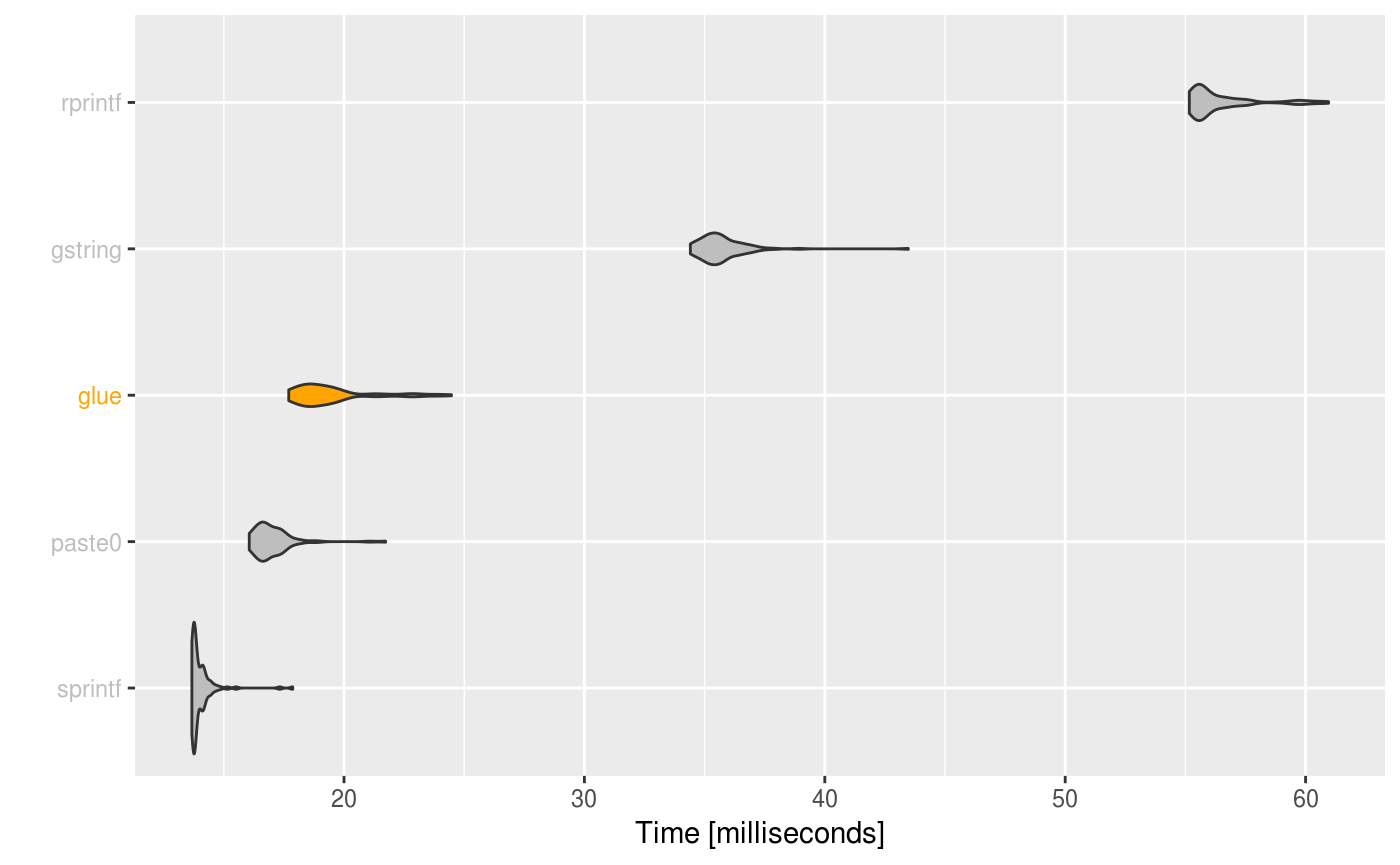
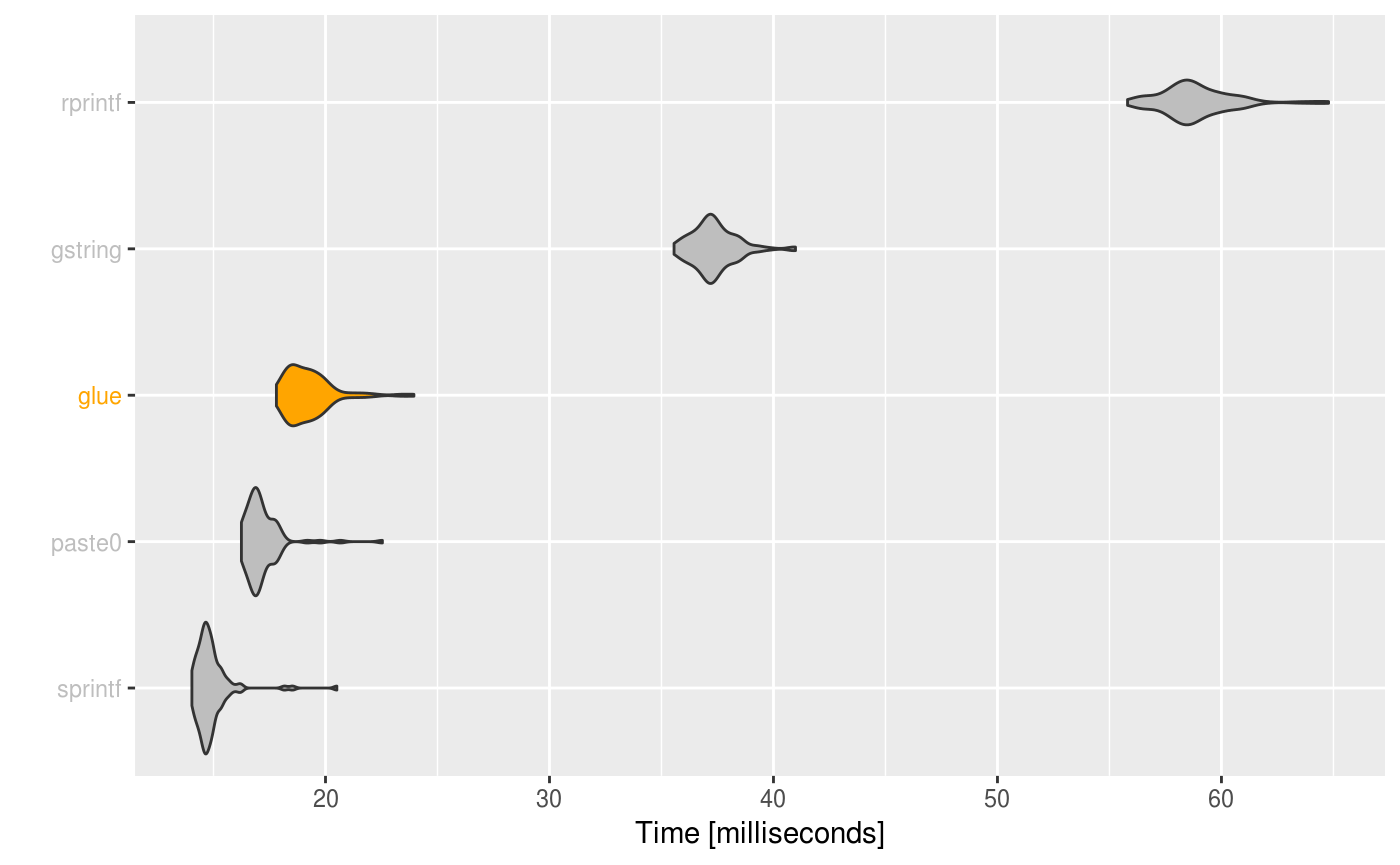
Built site for glue: 1.3.0.9000@ec27bae

diff --git a/dev/index.html b/dev/index.html
@@ -8,7 +8,7 @@
 <title>Interpreted String Literals • glue</title>
 <!-- jquery --><script src="https://code.jquery.com/jquery-3.1.0.min.js" integrity="sha384-nrOSfDHtoPMzJHjVTdCopGqIqeYETSXhZDFyniQ8ZHcVy08QesyHcnOUpMpqnmWq" crossorigin="anonymous"></script><!-- Bootstrap --><link href="tidyverse.css" rel="stylesheet">
 <script src="https://maxcdn.bootstrapcdn.com/bootstrap/3.3.7/js/bootstrap.min.js" integrity="sha384-Tc5IQib027qvyjSMfHjOMaLkfuWVxZxUPnCJA7l2mCWNIpG9mGCD8wGNIcPD7Txa" crossorigin="anonymous"></script><!-- Font Awesome icons --><link href="https://maxcdn.bootstrapcdn.com/font-awesome/4.6.3/css/font-awesome.min.css" rel="stylesheet" integrity="sha384-T8Gy5hrqNKT+hzMclPo118YTQO6cYprQmhrYwIiQ/3axmI1hQomh7Ud2hPOy8SP1" crossorigin="anonymous">
-<!-- clipboard.js --><script src="https://cdnjs.cloudflare.com/ajax/libs/clipboard.js/1.7.1/clipboard.min.js" integrity="sha384-cV+rhyOuRHc9Ub/91rihWcGmMmCXDeksTtCihMupQHSsi8GIIRDG0ThDc3HGQFJ3" crossorigin="anonymous"></script><!-- sticky kit --><script src="https://cdnjs.cloudflare.com/ajax/libs/sticky-kit/1.1.3/sticky-kit.min.js" integrity="sha256-c4Rlo1ZozqTPE2RLuvbusY3+SU1pQaJC0TjuhygMipw=" crossorigin="anonymous"></script><!-- pkgdown --><link href="pkgdown.css" rel="stylesheet">
+<!-- clipboard.js --><script src="https://cdnjs.cloudflare.com/ajax/libs/clipboard.js/2.0.4/clipboard.min.js" integrity="sha256-FiZwavyI2V6+EXO1U+xzLG3IKldpiTFf3153ea9zikQ=" crossorigin="anonymous"></script><!-- sticky kit --><script src="https://cdnjs.cloudflare.com/ajax/libs/sticky-kit/1.1.3/sticky-kit.min.js" integrity="sha256-c4Rlo1ZozqTPE2RLuvbusY3+SU1pQaJC0TjuhygMipw=" crossorigin="anonymous"></script><!-- pkgdown --><link href="pkgdown.css" rel="stylesheet">
 <script src="pkgdown.js"></script><link href="tidyverse-2.css" rel="stylesheet">
 <meta property="og:title" content="Interpreted String Literals">
 <meta property="og:description" content="An implementation of interpreted string literals, inspired by
@@ -118,24 +118,29 @@
 <div id="overview" class="section level2">
 <h2 class="hasAnchor">
 <a href="#overview" class="anchor"></a>Overview</h2>
-<p>Glue offers interpreted string literals that are small, fast, and dependency-free. Glue does this by embedding R expressions in curly braces which are then evaluated and inserted into the argument string. For example,</p>
-<div class="sourceCode" id="cb1"><pre class="sourceCode r"><code class="sourceCode r"><a class="sourceLine" id="cb1-1" data-line-number="1">age &lt;-<span class="st"> </span><span class="dv">20</span></a>
-<a class="sourceLine" id="cb1-2" data-line-number="2"><span class="kw"><a href="reference/glue.html">glue</a></span>(<span class="st">'I will soon be {age + 1}.")</span></a></code></pre></div>
-<p>yields “I will soon be 21.”</p>
+<p>Glue offers interpreted string literals that are small, fast, and dependency-free. Glue does this by embedding R expressions in curly braces which are then evaluated and inserted into the argument string.</p>
 </div>
 <div id="installation" class="section level2">
 <h2 class="hasAnchor">
 <a href="#installation" class="anchor"></a>Installation</h2>
-<div class="sourceCode" id="cb2"><pre class="sourceCode r"><code class="sourceCode r"><a class="sourceLine" id="cb2-1" data-line-number="1"><span class="co"># Install the released version from CRAN:</span></a>
-<a class="sourceLine" id="cb2-2" data-line-number="2"><span class="kw"><a href="https://www.rdocumentation.org/packages/utils/topics/install.packages">install.packages</a></span>(<span class="st">"glue"</span>)</a>
-<a class="sourceLine" id="cb2-3" data-line-number="3"></a>
-<a class="sourceLine" id="cb2-4" data-line-number="4"><span class="co"># Install the development version from GitHub:</span></a>
-<a class="sourceLine" id="cb2-5" data-line-number="5"><span class="co"># install.packages("devtools")</span></a>
-<a class="sourceLine" id="cb2-6" data-line-number="6">devtools<span class="op">::</span><span class="kw"><a href="https://www.rdocumentation.org/packages/devtools/topics/reexports">install_github</a></span>(<span class="st">"tidyverse/glue"</span>)</a></code></pre></div>
+<div class="sourceCode" id="cb1"><pre class="sourceCode r"><code class="sourceCode r"><a class="sourceLine" id="cb1-1" data-line-number="1"><span class="co"># Install the released version from CRAN:</span></a>
+<a class="sourceLine" id="cb1-2" data-line-number="2"><span class="kw"><a href="https://www.rdocumentation.org/packages/utils/topics/install.packages">install.packages</a></span>(<span class="st">"glue"</span>)</a>
+<a class="sourceLine" id="cb1-3" data-line-number="3"></a>
+<a class="sourceLine" id="cb1-4" data-line-number="4"><span class="co"># Install the development version from GitHub:</span></a>
+<a class="sourceLine" id="cb1-5" data-line-number="5"><span class="co"># install.packages("devtools")</span></a>
+<a class="sourceLine" id="cb1-6" data-line-number="6">devtools<span class="op">::</span><span class="kw"><a href="https://www.rdocumentation.org/packages/devtools/topics/reexports">install_github</a></span>(<span class="st">"tidyverse/glue"</span>)</a></code></pre></div>
 </div>
 <div id="usage" class="section level2">
 <h2 class="hasAnchor">
 <a href="#usage" class="anchor"></a>Usage</h2>
+<div id="variables-can-be-passed-directly-into-strings-" class="section level5">
+<h5 class="hasAnchor">
+<a href="#variables-can-be-passed-directly-into-strings-" class="anchor"></a>Variables can be passed directly into strings.</h5>
+<div class="sourceCode" id="cb2"><pre class="sourceCode r"><code class="sourceCode r"><a class="sourceLine" id="cb2-1" data-line-number="1"><span class="kw"><a href="https://www.rdocumentation.org/packages/base/topics/library">library</a></span>(glue)   </a>
+<a class="sourceLine" id="cb2-2" data-line-number="2">name &lt;-<span class="st"> "Fred"</span></a>
+<a class="sourceLine" id="cb2-3" data-line-number="3"><span class="kw"><a href="reference/glue.html">glue</a></span>(<span class="st">'My name is {name}.'</span>)</a>
+<a class="sourceLine" id="cb2-4" data-line-number="4"><span class="co">#&gt; My name is Fred.</span></a></code></pre></div>
+</div>
 <div id="long-strings-are-broken-by-line-and-concatenated-together-" class="section level5">
 <h5 class="hasAnchor">
 <a href="#long-strings-are-broken-by-line-and-concatenated-together-" class="anchor"></a>Long strings are broken by line and concatenated together.</h5>
@@ -176,33 +181,22 @@
 <h5 class="hasAnchor">
 <a href="#or-within-dplyr-pipelines" class="anchor"></a>Or within dplyr pipelines</h5>
 <div class="sourceCode" id="cb6"><pre class="sourceCode r"><code class="sourceCode r"><a class="sourceLine" id="cb6-1" data-line-number="1"><span class="kw"><a href="https://www.rdocumentation.org/packages/base/topics/library">library</a></span>(dplyr)</a>
-<a class="sourceLine" id="cb6-2" data-line-number="2"><span class="co">#&gt; </span></a>
-<a class="sourceLine" id="cb6-3" data-line-number="3"><span class="co">#&gt; Attaching package: 'dplyr'</span></a>
-<a class="sourceLine" id="cb6-4" data-line-number="4"><span class="co">#&gt; The following object is masked from 'package:glue':</span></a>
-<a class="sourceLine" id="cb6-5" data-line-number="5"><span class="co">#&gt; </span></a>
-<a class="sourceLine" id="cb6-6" data-line-number="6"><span class="co">#&gt;     collapse</span></a>
-<a class="sourceLine" id="cb6-7" data-line-number="7"><span class="co">#&gt; The following objects are masked from 'package:stats':</span></a>
-<a class="sourceLine" id="cb6-8" data-line-number="8"><span class="co">#&gt; </span></a>
-<a class="sourceLine" id="cb6-9" data-line-number="9"><span class="co">#&gt;     filter, lag</span></a>
-<a class="sourceLine" id="cb6-10" data-line-number="10"><span class="co">#&gt; The following objects are masked from 'package:base':</span></a>
-<a class="sourceLine" id="cb6-11" data-line-number="11"><span class="co">#&gt; </span></a>
-<a class="sourceLine" id="cb6-12" data-line-number="12"><span class="co">#&gt;     intersect, setdiff, setequal, union</span></a>
-<a class="sourceLine" id="cb6-13" data-line-number="13"><span class="kw"><a href="https://www.rdocumentation.org/packages/utils/topics/head">head</a></span>(iris) <span class="op">%&gt;%</span></a>
-<a class="sourceLine" id="cb6-14" data-line-number="14"><span class="st">  </span><span class="kw"><a href="https://dplyr.tidyverse.org/reference/mutate.html">mutate</a></span>(<span class="dt">description =</span> <span class="kw"><a href="reference/glue.html">glue</a></span>(<span class="st">"This {Species} has a petal length of {Petal.Length}"</span>))</a>
-<a class="sourceLine" id="cb6-15" data-line-number="15"><span class="co">#&gt;   Sepal.Length Sepal.Width Petal.Length Petal.Width Species</span></a>
-<a class="sourceLine" id="cb6-16" data-line-number="16"><span class="co">#&gt; 1          5.1         3.5          1.4         0.2  setosa</span></a>
-<a class="sourceLine" id="cb6-17" data-line-number="17"><span class="co">#&gt; 2          4.9         3.0          1.4         0.2  setosa</span></a>
-<a class="sourceLine" id="cb6-18" data-line-number="18"><span class="co">#&gt; 3          4.7         3.2          1.3         0.2  setosa</span></a>
-<a class="sourceLine" id="cb6-19" data-line-number="19"><span class="co">#&gt; 4          4.6         3.1          1.5         0.2  setosa</span></a>
-<a class="sourceLine" id="cb6-20" data-line-number="20"><span class="co">#&gt; 5          5.0         3.6          1.4         0.2  setosa</span></a>
-<a class="sourceLine" id="cb6-21" data-line-number="21"><span class="co">#&gt; 6          5.4         3.9          1.7         0.4  setosa</span></a>
-<a class="sourceLine" id="cb6-22" data-line-number="22"><span class="co">#&gt;                             description</span></a>
-<a class="sourceLine" id="cb6-23" data-line-number="23"><span class="co">#&gt; 1 This setosa has a petal length of 1.4</span></a>
-<a class="sourceLine" id="cb6-24" data-line-number="24"><span class="co">#&gt; 2 This setosa has a petal length of 1.4</span></a>
-<a class="sourceLine" id="cb6-25" data-line-number="25"><span class="co">#&gt; 3 This setosa has a petal length of 1.3</span></a>
-<a class="sourceLine" id="cb6-26" data-line-number="26"><span class="co">#&gt; 4 This setosa has a petal length of 1.5</span></a>
-<a class="sourceLine" id="cb6-27" data-line-number="27"><span class="co">#&gt; 5 This setosa has a petal length of 1.4</span></a>
-<a class="sourceLine" id="cb6-28" data-line-number="28"><span class="co">#&gt; 6 This setosa has a petal length of 1.7</span></a></code></pre></div>
+<a class="sourceLine" id="cb6-2" data-line-number="2"><span class="kw"><a href="https://www.rdocumentation.org/packages/utils/topics/head">head</a></span>(iris) <span class="op">%&gt;%</span></a>
+<a class="sourceLine" id="cb6-3" data-line-number="3"><span class="st">  </span><span class="kw"><a href="https://dplyr.tidyverse.org/reference/mutate.html">mutate</a></span>(<span class="dt">description =</span> <span class="kw"><a href="reference/glue.html">glue</a></span>(<span class="st">"This {Species} has a petal length of {Petal.Length}"</span>))</a>
+<a class="sourceLine" id="cb6-4" data-line-number="4"><span class="co">#&gt;   Sepal.Length Sepal.Width Petal.Length Petal.Width Species</span></a>
+<a class="sourceLine" id="cb6-5" data-line-number="5"><span class="co">#&gt; 1          5.1         3.5          1.4         0.2  setosa</span></a>
+<a class="sourceLine" id="cb6-6" data-line-number="6"><span class="co">#&gt; 2          4.9         3.0          1.4         0.2  setosa</span></a>
+<a class="sourceLine" id="cb6-7" data-line-number="7"><span class="co">#&gt; 3          4.7         3.2          1.3         0.2  setosa</span></a>
+<a class="sourceLine" id="cb6-8" data-line-number="8"><span class="co">#&gt; 4          4.6         3.1          1.5         0.2  setosa</span></a>
+<a class="sourceLine" id="cb6-9" data-line-number="9"><span class="co">#&gt; 5          5.0         3.6          1.4         0.2  setosa</span></a>
+<a class="sourceLine" id="cb6-10" data-line-number="10"><span class="co">#&gt; 6          5.4         3.9          1.7         0.4  setosa</span></a>
+<a class="sourceLine" id="cb6-11" data-line-number="11"><span class="co">#&gt;                             description</span></a>
+<a class="sourceLine" id="cb6-12" data-line-number="12"><span class="co">#&gt; 1 This setosa has a petal length of 1.4</span></a>
+<a class="sourceLine" id="cb6-13" data-line-number="13"><span class="co">#&gt; 2 This setosa has a petal length of 1.4</span></a>
+<a class="sourceLine" id="cb6-14" data-line-number="14"><span class="co">#&gt; 3 This setosa has a petal length of 1.3</span></a>
+<a class="sourceLine" id="cb6-15" data-line-number="15"><span class="co">#&gt; 4 This setosa has a petal length of 1.5</span></a>
+<a class="sourceLine" id="cb6-16" data-line-number="16"><span class="co">#&gt; 5 This setosa has a petal length of 1.4</span></a>
+<a class="sourceLine" id="cb6-17" data-line-number="17"><span class="co">#&gt; 6 This setosa has a petal length of 1.7</span></a></code></pre></div>
 </div>
 <div id="leading-whitespace-and-blank-lines-from-the-first-and-last-lines-are-automatically-trimmed-" class="section level5">
 <h5 class="hasAnchor">

diff --git a/dev/articles/speed.html b/dev/articles/speed.html
@@ -8,7 +8,7 @@
 <title>Speed of glue • glue</title>
 <!-- jquery --><script src="https://code.jquery.com/jquery-3.1.0.min.js" integrity="sha384-nrOSfDHtoPMzJHjVTdCopGqIqeYETSXhZDFyniQ8ZHcVy08QesyHcnOUpMpqnmWq" crossorigin="anonymous"></script><!-- Bootstrap --><link href="../tidyverse.css" rel="stylesheet">
 <script src="https://maxcdn.bootstrapcdn.com/bootstrap/3.3.7/js/bootstrap.min.js" integrity="sha384-Tc5IQib027qvyjSMfHjOMaLkfuWVxZxUPnCJA7l2mCWNIpG9mGCD8wGNIcPD7Txa" crossorigin="anonymous"></script><!-- Font Awesome icons --><link href="https://maxcdn.bootstrapcdn.com/font-awesome/4.6.3/css/font-awesome.min.css" rel="stylesheet" integrity="sha384-T8Gy5hrqNKT+hzMclPo118YTQO6cYprQmhrYwIiQ/3axmI1hQomh7Ud2hPOy8SP1" crossorigin="anonymous">
-<!-- clipboard.js --><script src="https://cdnjs.cloudflare.com/ajax/libs/clipboard.js/1.7.1/clipboard.min.js" integrity="sha384-cV+rhyOuRHc9Ub/91rihWcGmMmCXDeksTtCihMupQHSsi8GIIRDG0ThDc3HGQFJ3" crossorigin="anonymous"></script><!-- sticky kit --><script src="https://cdnjs.cloudflare.com/ajax/libs/sticky-kit/1.1.3/sticky-kit.min.js" integrity="sha256-c4Rlo1ZozqTPE2RLuvbusY3+SU1pQaJC0TjuhygMipw=" crossorigin="anonymous"></script><!-- pkgdown --><link href="../pkgdown.css" rel="stylesheet">
+<!-- clipboard.js --><script src="https://cdnjs.cloudflare.com/ajax/libs/clipboard.js/2.0.4/clipboard.min.js" integrity="sha256-FiZwavyI2V6+EXO1U+xzLG3IKldpiTFf3153ea9zikQ=" crossorigin="anonymous"></script><!-- sticky kit --><script src="https://cdnjs.cloudflare.com/ajax/libs/sticky-kit/1.1.3/sticky-kit.min.js" integrity="sha256-c4Rlo1ZozqTPE2RLuvbusY3+SU1pQaJC0TjuhygMipw=" crossorigin="anonymous"></script><!-- pkgdown --><link href="../pkgdown.css" rel="stylesheet">
 <script src="../pkgdown.js"></script><link href="../tidyverse-2.css" rel="stylesheet">
 <meta property="og:title" content="Speed of glue">
 <meta property="og:description" content="">
@@ -145,13 +145,13 @@
 <a class="sourceLine" id="cb1-12" data-line-number="12"></a>
 <a class="sourceLine" id="cb1-13" data-line-number="13"><span class="kw"><a href="https://www.rdocumentation.org/packages/base/topics/print">print</a></span>(<span class="dt">unit =</span> <span class="st">"eps"</span>, <span class="dt">order =</span> <span class="st">"median"</span>, <span class="dt">signif =</span> <span class="dv">4</span>, simple)</a>
 <a class="sourceLine" id="cb1-14" data-line-number="14"><span class="co">#&gt; Unit: evaluations per second</span></a>
-<a class="sourceLine" id="cb1-15" data-line-number="15"><span class="co">#&gt;        expr       min     lq   mean median     uq     max neval</span></a>
-<a class="sourceLine" id="cb1-16" data-line-number="16"><span class="co">#&gt;     rprintf    236.50   1843   1905   1906   2005    2258   100</span></a>
-<a class="sourceLine" id="cb1-17" data-line-number="17"><span class="co">#&gt;     gstring     18.65   2139   2254   2230   2402    2697   100</span></a>
-<a class="sourceLine" id="cb1-18" data-line-number="18"><span class="co">#&gt;  str_interp    197.90   2650   2783   2803   2985    3558   100</span></a>
-<a class="sourceLine" id="cb1-19" data-line-number="19"><span class="co">#&gt;        glue   1125.00   5475   6127   5873   6868    8532   100</span></a>
-<a class="sourceLine" id="cb1-20" data-line-number="20"><span class="co">#&gt;      paste0 126100.00 235600 438400 440400 546700  909900   100</span></a>
-<a class="sourceLine" id="cb1-21" data-line-number="21"><span class="co">#&gt;     sprintf  41440.00 374800 578500 530500 626000 1437000   100</span></a>
+<a class="sourceLine" id="cb1-15" data-line-number="15"><span class="co">#&gt;        expr      min     lq   mean median     uq     max neval</span></a>
+<a class="sourceLine" id="cb1-16" data-line-number="16"><span class="co">#&gt;     rprintf   222.40   1587   1680   1701   1793    1988   100</span></a>
+<a class="sourceLine" id="cb1-17" data-line-number="17"><span class="co">#&gt;     gstring    16.87   1780   1905   1956   2052    2374   100</span></a>
+<a class="sourceLine" id="cb1-18" data-line-number="18"><span class="co">#&gt;  str_interp   201.20   2201   2413   2458   2618    3119   100</span></a>
+<a class="sourceLine" id="cb1-19" data-line-number="19"><span class="co">#&gt;        glue   959.00   4317   4706   4630   4967    6685   100</span></a>
+<a class="sourceLine" id="cb1-20" data-line-number="20"><span class="co">#&gt;     sprintf 53190.00 301300 484100 373100 469000 1522000   100</span></a>
+<a class="sourceLine" id="cb1-21" data-line-number="21"><span class="co">#&gt;      paste0 27900.00 191900 406500 407900 502000  970900   100</span></a>
 <a class="sourceLine" id="cb1-22" data-line-number="22"></a>
 <a class="sourceLine" id="cb1-23" data-line-number="23"><span class="kw">plot_comparison</span>(simple)</a></code></pre></div>
 <p><img src="speed_files/figure-html/unnamed-chunk-1-1.png" width="700"></p>
@@ -179,11 +179,11 @@
 <a class="sourceLine" id="cb2-12" data-line-number="12"><span class="kw"><a href="https://www.rdocumentation.org/packages/base/topics/print">print</a></span>(<span class="dt">unit =</span> <span class="st">"ms"</span>, <span class="dt">order =</span> <span class="st">"median"</span>, <span class="dt">signif =</span> <span class="dv">4</span>, vectorized)</a>
 <a class="sourceLine" id="cb2-13" data-line-number="13"><span class="co">#&gt; Unit: milliseconds</span></a>
 <a class="sourceLine" id="cb2-14" data-line-number="14"><span class="co">#&gt;     expr   min    lq  mean median    uq   max neval</span></a>
-<a class="sourceLine" id="cb2-15" data-line-number="15"><span class="co">#&gt;  sprintf 13.67 13.75 14.03  13.80 14.11 17.87   100</span></a>
-<a class="sourceLine" id="cb2-16" data-line-number="16"><span class="co">#&gt;   paste0 16.06 16.47 17.00  16.78 17.34 21.73   100</span></a>
-<a class="sourceLine" id="cb2-17" data-line-number="17"><span class="co">#&gt;     glue 17.70 18.32 19.41  19.02 19.72 24.47   100</span></a>
-<a class="sourceLine" id="cb2-18" data-line-number="18"><span class="co">#&gt;  gstring 34.41 35.11 35.72  35.53 36.06 43.47   100</span></a>
-<a class="sourceLine" id="cb2-19" data-line-number="19"><span class="co">#&gt;  rprintf 55.16 55.49 56.43  55.75 56.75 60.96   100</span></a>
+<a class="sourceLine" id="cb2-15" data-line-number="15"><span class="co">#&gt;  sprintf 14.04 14.49 14.90  14.70 15.01 20.51   100</span></a>
+<a class="sourceLine" id="cb2-16" data-line-number="16"><span class="co">#&gt;   paste0 16.25 16.69 17.16  16.98 17.46 22.54   100</span></a>
+<a class="sourceLine" id="cb2-17" data-line-number="17"><span class="co">#&gt;     glue 17.81 18.45 19.23  19.04 19.71 23.95   100</span></a>
+<a class="sourceLine" id="cb2-18" data-line-number="18"><span class="co">#&gt;  gstring 35.56 36.76 37.35  37.25 37.86 40.98   100</span></a>
+<a class="sourceLine" id="cb2-19" data-line-number="19"><span class="co">#&gt;  rprintf 55.81 57.94 58.82  58.60 59.71 64.78   100</span></a>
 <a class="sourceLine" id="cb2-20" data-line-number="20"></a>
 <a class="sourceLine" id="cb2-21" data-line-number="21"><span class="kw">plot_comparison</span>(vectorized, <span class="dt">log =</span> <span class="ot">FALSE</span>)</a></code></pre></div>
 <p><img src="speed_files/figure-html/unnamed-chunk-2-1.png" width="700"></p>

diff --git a/dev/news/index.html b/dev/news/index.html
@@ -19,7 +19,7 @@
 <link href="https://maxcdn.bootstrapcdn.com/font-awesome/4.6.3/css/font-awesome.min.css" rel="stylesheet" integrity="sha384-T8Gy5hrqNKT+hzMclPo118YTQO6cYprQmhrYwIiQ/3axmI1hQomh7Ud2hPOy8SP1" crossorigin="anonymous">
 
 <!-- clipboard.js -->
-<script src="https://cdnjs.cloudflare.com/ajax/libs/clipboard.js/1.7.1/clipboard.min.js" integrity="sha384-cV+rhyOuRHc9Ub/91rihWcGmMmCXDeksTtCihMupQHSsi8GIIRDG0ThDc3HGQFJ3" crossorigin="anonymous"></script>
+<script src="https://cdnjs.cloudflare.com/ajax/libs/clipboard.js/2.0.4/clipboard.min.js" integrity="sha256-FiZwavyI2V6+EXO1U+xzLG3IKldpiTFf3153ea9zikQ=" crossorigin="anonymous"></script>
 
 <!-- sticky kit -->
 <script src="https://cdnjs.cloudflare.com/ajax/libs/sticky-kit/1.1.3/sticky-kit.min.js" integrity="sha256-c4Rlo1ZozqTPE2RLuvbusY3+SU1pQaJC0TjuhygMipw=" crossorigin="anonymous"></script>
@@ -28,6 +28,8 @@
 <link href="../pkgdown.css" rel="stylesheet">
 <script src="../pkgdown.js"></script>
 <link href="../tidyverse-2.css" rel="stylesheet">
+
+
 
 <meta property="og:title" content="Changelog" />
 
@@ -162,6 +164,7 @@
 <h2 class="hasAnchor">
 <a href="#bugfixes-and-minor-changes" class="anchor"></a>Bugfixes and minor changes</h2>
 <ul>
+<li><p>Glue now throws an informative error message when it cannot interpolate a function into a string (<a href='https://github.com/tidyverse/glue/issues/114'>#114</a>, <a href='https://github.com/haleyjeppson'>@haleyjeppson</a> &amp; <a href='https://github.com/ijlyttle'>@ijlyttle</a>).</p></li>
 <li><p>Glue now evaluates unnamed arguments lazily with <code><a href="https://www.rdocumentation.org/packages/base/topics/delayedAssign">delayedAssign()</a></code>, so there is no performance cost if an argument is not used. (<a href='https://github.com/tidyverse/glue/issues/83'>#83</a>, <a href='https://github.com/egnha'>@egnha</a>).</p></li>
 <li><p>Fixed a bug where names in the assigned expression of an interpolation variable would conflict with the name of the variable itself (<a href='https://github.com/tidyverse/glue/issues/89'>#89</a>, <a href='https://github.com/egnha'>@egnha</a>).</p></li>
 <li><p>Do not drop the <code>glue</code> class when subsetting (<a href='https://github.com/tidyverse/glue/issues/66'>#66</a>).</p></li>

diff --git a/dev/articles/releases/glue-1.2.0.html b/dev/articles/releases/glue-1.2.0.html
@@ -8,7 +8,7 @@
 <title>glue 1.2.0 • glue</title>
 <!-- jquery --><script src="https://code.jquery.com/jquery-3.1.0.min.js" integrity="sha384-nrOSfDHtoPMzJHjVTdCopGqIqeYETSXhZDFyniQ8ZHcVy08QesyHcnOUpMpqnmWq" crossorigin="anonymous"></script><!-- Bootstrap --><link href="../../tidyverse.css" rel="stylesheet">
 <script src="https://maxcdn.bootstrapcdn.com/bootstrap/3.3.7/js/bootstrap.min.js" integrity="sha384-Tc5IQib027qvyjSMfHjOMaLkfuWVxZxUPnCJA7l2mCWNIpG9mGCD8wGNIcPD7Txa" crossorigin="anonymous"></script><!-- Font Awesome icons --><link href="https://maxcdn.bootstrapcdn.com/font-awesome/4.6.3/css/font-awesome.min.css" rel="stylesheet" integrity="sha384-T8Gy5hrqNKT+hzMclPo118YTQO6cYprQmhrYwIiQ/3axmI1hQomh7Ud2hPOy8SP1" crossorigin="anonymous">
-<!-- clipboard.js --><script src="https://cdnjs.cloudflare.com/ajax/libs/clipboard.js/1.7.1/clipboard.min.js" integrity="sha384-cV+rhyOuRHc9Ub/91rihWcGmMmCXDeksTtCihMupQHSsi8GIIRDG0ThDc3HGQFJ3" crossorigin="anonymous"></script><!-- sticky kit --><script src="https://cdnjs.cloudflare.com/ajax/libs/sticky-kit/1.1.3/sticky-kit.min.js" integrity="sha256-c4Rlo1ZozqTPE2RLuvbusY3+SU1pQaJC0TjuhygMipw=" crossorigin="anonymous"></script><!-- pkgdown --><link href="../../pkgdown.css" rel="stylesheet">
+<!-- clipboard.js --><script src="https://cdnjs.cloudflare.com/ajax/libs/clipboard.js/2.0.4/clipboard.min.js" integrity="sha256-FiZwavyI2V6+EXO1U+xzLG3IKldpiTFf3153ea9zikQ=" crossorigin="anonymous"></script><!-- sticky kit --><script src="https://cdnjs.cloudflare.com/ajax/libs/sticky-kit/1.1.3/sticky-kit.min.js" integrity="sha256-c4Rlo1ZozqTPE2RLuvbusY3+SU1pQaJC0TjuhygMipw=" crossorigin="anonymous"></script><!-- pkgdown --><link href="../../pkgdown.css" rel="stylesheet">
 <script src="../../pkgdown.js"></script><link href="../../tidyverse-2.css" rel="stylesheet">
 <meta property="og:title" content="glue 1.2.0">
 <meta property="og:description" content="glue 1.2.0 is now available on CRAN. glue is designed to make it easy to interpolate (“glue”) your data into strings.">

diff --git a/dev/articles/transformers.html b/dev/articles/transformers.html
@@ -8,7 +8,7 @@
 <title>Transformers • glue</title>
 <!-- jquery --><script src="https://code.jquery.com/jquery-3.1.0.min.js" integrity="sha384-nrOSfDHtoPMzJHjVTdCopGqIqeYETSXhZDFyniQ8ZHcVy08QesyHcnOUpMpqnmWq" crossorigin="anonymous"></script><!-- Bootstrap --><link href="../tidyverse.css" rel="stylesheet">
 <script src="https://maxcdn.bootstrapcdn.com/bootstrap/3.3.7/js/bootstrap.min.js" integrity="sha384-Tc5IQib027qvyjSMfHjOMaLkfuWVxZxUPnCJA7l2mCWNIpG9mGCD8wGNIcPD7Txa" crossorigin="anonymous"></script><!-- Font Awesome icons --><link href="https://maxcdn.bootstrapcdn.com/font-awesome/4.6.3/css/font-awesome.min.css" rel="stylesheet" integrity="sha384-T8Gy5hrqNKT+hzMclPo118YTQO6cYprQmhrYwIiQ/3axmI1hQomh7Ud2hPOy8SP1" crossorigin="anonymous">
-<!-- clipboard.js --><script src="https://cdnjs.cloudflare.com/ajax/libs/clipboard.js/1.7.1/clipboard.min.js" integrity="sha384-cV+rhyOuRHc9Ub/91rihWcGmMmCXDeksTtCihMupQHSsi8GIIRDG0ThDc3HGQFJ3" crossorigin="anonymous"></script><!-- sticky kit --><script src="https://cdnjs.cloudflare.com/ajax/libs/sticky-kit/1.1.3/sticky-kit.min.js" integrity="sha256-c4Rlo1ZozqTPE2RLuvbusY3+SU1pQaJC0TjuhygMipw=" crossorigin="anonymous"></script><!-- pkgdown --><link href="../pkgdown.css" rel="stylesheet">
+<!-- clipboard.js --><script src="https://cdnjs.cloudflare.com/ajax/libs/clipboard.js/2.0.4/clipboard.min.js" integrity="sha256-FiZwavyI2V6+EXO1U+xzLG3IKldpiTFf3153ea9zikQ=" crossorigin="anonymous"></script><!-- sticky kit --><script src="https://cdnjs.cloudflare.com/ajax/libs/sticky-kit/1.1.3/sticky-kit.min.js" integrity="sha256-c4Rlo1ZozqTPE2RLuvbusY3+SU1pQaJC0TjuhygMipw=" crossorigin="anonymous"></script><!-- pkgdown --><link href="../pkgdown.css" rel="stylesheet">
 <script src="../pkgdown.js"></script><link href="../tidyverse-2.css" rel="stylesheet">
 <meta property="og:title" content="Transformers">
 <meta property="og:description" content="">

diff --git a/dev/reference/glue_sql.html b/dev/reference/glue_sql.html
@@ -19,7 +19,7 @@
 <link href="https://maxcdn.bootstrapcdn.com/font-awesome/4.6.3/css/font-awesome.min.css" rel="stylesheet" integrity="sha384-T8Gy5hrqNKT+hzMclPo118YTQO6cYprQmhrYwIiQ/3axmI1hQomh7Ud2hPOy8SP1" crossorigin="anonymous">
 
 <!-- clipboard.js -->
-<script src="https://cdnjs.cloudflare.com/ajax/libs/clipboard.js/1.7.1/clipboard.min.js" integrity="sha384-cV+rhyOuRHc9Ub/91rihWcGmMmCXDeksTtCihMupQHSsi8GIIRDG0ThDc3HGQFJ3" crossorigin="anonymous"></script>
+<script src="https://cdnjs.cloudflare.com/ajax/libs/clipboard.js/2.0.4/clipboard.min.js" integrity="sha256-FiZwavyI2V6+EXO1U+xzLG3IKldpiTFf3153ea9zikQ=" crossorigin="anonymous"></script>
 
 <!-- sticky kit -->
 <script src="https://cdnjs.cloudflare.com/ajax/libs/sticky-kit/1.1.3/sticky-kit.min.js" integrity="sha256-c4Rlo1ZozqTPE2RLuvbusY3+SU1pQaJC0TjuhygMipw=" crossorigin="anonymous"></script>
@@ -28,6 +28,8 @@
 <link href="../pkgdown.css" rel="stylesheet">
 <script src="../pkgdown.js"></script>
 <link href="../tidyverse-2.css" rel="stylesheet">
+
+
 
 <meta property="og:title" content="Interpolate strings with SQL escaping — glue_sql" />
 

diff --git a/dev/reference/identity_transformer.html b/dev/reference/identity_transformer.html
@@ -19,7 +19,7 @@
 <link href="https://maxcdn.bootstrapcdn.com/font-awesome/4.6.3/css/font-awesome.min.css" rel="stylesheet" integrity="sha384-T8Gy5hrqNKT+hzMclPo118YTQO6cYprQmhrYwIiQ/3axmI1hQomh7Ud2hPOy8SP1" crossorigin="anonymous">
 
 <!-- clipboard.js -->
-<script src="https://cdnjs.cloudflare.com/ajax/libs/clipboard.js/1.7.1/clipboard.min.js" integrity="sha384-cV+rhyOuRHc9Ub/91rihWcGmMmCXDeksTtCihMupQHSsi8GIIRDG0ThDc3HGQFJ3" crossorigin="anonymous"></script>
+<script src="https://cdnjs.cloudflare.com/ajax/libs/clipboard.js/2.0.4/clipboard.min.js" integrity="sha256-FiZwavyI2V6+EXO1U+xzLG3IKldpiTFf3153ea9zikQ=" crossorigin="anonymous"></script>
 
 <!-- sticky kit -->
 <script src="https://cdnjs.cloudflare.com/ajax/libs/sticky-kit/1.1.3/sticky-kit.min.js" integrity="sha256-c4Rlo1ZozqTPE2RLuvbusY3+SU1pQaJC0TjuhygMipw=" crossorigin="anonymous"></script>
@@ -28,6 +28,8 @@
 <link href="../pkgdown.css" rel="stylesheet">
 <script src="../pkgdown.js"></script>
 <link href="../tidyverse-2.css" rel="stylesheet">
+
+
 
 <meta property="og:title" content="Parse and Evaluate R code — identity_transformer" />
 

diff --git a/dev/reference/glue_collapse.html b/dev/reference/glue_collapse.html
@@ -19,7 +19,7 @@
 <link href="https://maxcdn.bootstrapcdn.com/font-awesome/4.6.3/css/font-awesome.min.css" rel="stylesheet" integrity="sha384-T8Gy5hrqNKT+hzMclPo118YTQO6cYprQmhrYwIiQ/3axmI1hQomh7Ud2hPOy8SP1" crossorigin="anonymous">
 
 <!-- clipboard.js -->
-<script src="https://cdnjs.cloudflare.com/ajax/libs/clipboard.js/1.7.1/clipboard.min.js" integrity="sha384-cV+rhyOuRHc9Ub/91rihWcGmMmCXDeksTtCihMupQHSsi8GIIRDG0ThDc3HGQFJ3" crossorigin="anonymous"></script>
+<script src="https://cdnjs.cloudflare.com/ajax/libs/clipboard.js/2.0.4/clipboard.min.js" integrity="sha256-FiZwavyI2V6+EXO1U+xzLG3IKldpiTFf3153ea9zikQ=" crossorigin="anonymous"></script>
 
 <!-- sticky kit -->
 <script src="https://cdnjs.cloudflare.com/ajax/libs/sticky-kit/1.1.3/sticky-kit.min.js" integrity="sha256-c4Rlo1ZozqTPE2RLuvbusY3+SU1pQaJC0TjuhygMipw=" crossorigin="anonymous"></script>
@@ -28,6 +28,8 @@
 <link href="../pkgdown.css" rel="stylesheet">
 <script src="../pkgdown.js"></script>
 <link href="../tidyverse-2.css" rel="stylesheet">
+
+
 
 <meta property="og:title" content="Collapse a character vector — glue_collapse" />
 

diff --git a/dev/reference/glue_col.html b/dev/reference/glue_col.html
@@ -19,7 +19,7 @@
 <link href="https://maxcdn.bootstrapcdn.com/font-awesome/4.6.3/css/font-awesome.min.css" rel="stylesheet" integrity="sha384-T8Gy5hrqNKT+hzMclPo118YTQO6cYprQmhrYwIiQ/3axmI1hQomh7Ud2hPOy8SP1" crossorigin="anonymous">
 
 <!-- clipboard.js -->
-<script src="https://cdnjs.cloudflare.com/ajax/libs/clipboard.js/1.7.1/clipboard.min.js" integrity="sha384-cV+rhyOuRHc9Ub/91rihWcGmMmCXDeksTtCihMupQHSsi8GIIRDG0ThDc3HGQFJ3" crossorigin="anonymous"></script>
+<script src="https://cdnjs.cloudflare.com/ajax/libs/clipboard.js/2.0.4/clipboard.min.js" integrity="sha256-FiZwavyI2V6+EXO1U+xzLG3IKldpiTFf3153ea9zikQ=" crossorigin="anonymous"></script>
 
 <!-- sticky kit -->
 <script src="https://cdnjs.cloudflare.com/ajax/libs/sticky-kit/1.1.3/sticky-kit.min.js" integrity="sha256-c4Rlo1ZozqTPE2RLuvbusY3+SU1pQaJC0TjuhygMipw=" crossorigin="anonymous"></script>
@@ -28,6 +28,8 @@
 <link href="../pkgdown.css" rel="stylesheet">
 <script src="../pkgdown.js"></script>
 <link href="../tidyverse-2.css" rel="stylesheet">
+
+
 
 <meta property="og:title" content="Construct strings with color — glue_col" />
 

diff --git a/dev/reference/glue.html b/dev/reference/glue.html
@@ -19,7 +19,7 @@
 <link href="https://maxcdn.bootstrapcdn.com/font-awesome/4.6.3/css/font-awesome.min.css" rel="stylesheet" integrity="sha384-T8Gy5hrqNKT+hzMclPo118YTQO6cYprQmhrYwIiQ/3axmI1hQomh7Ud2hPOy8SP1" crossorigin="anonymous">
 
 <!-- clipboard.js -->
-<script src="https://cdnjs.cloudflare.com/ajax/libs/clipboard.js/1.7.1/clipboard.min.js" integrity="sha384-cV+rhyOuRHc9Ub/91rihWcGmMmCXDeksTtCihMupQHSsi8GIIRDG0ThDc3HGQFJ3" crossorigin="anonymous"></script>
+<script src="https://cdnjs.cloudflare.com/ajax/libs/clipboard.js/2.0.4/clipboard.min.js" integrity="sha256-FiZwavyI2V6+EXO1U+xzLG3IKldpiTFf3153ea9zikQ=" crossorigin="anonymous"></script>
 
 <!-- sticky kit -->
 <script src="https://cdnjs.cloudflare.com/ajax/libs/sticky-kit/1.1.3/sticky-kit.min.js" integrity="sha256-c4Rlo1ZozqTPE2RLuvbusY3+SU1pQaJC0TjuhygMipw=" crossorigin="anonymous"></script>
@@ -28,6 +28,8 @@
 <link href="../pkgdown.css" rel="stylesheet">
 <script src="../pkgdown.js"></script>
 <link href="../tidyverse-2.css" rel="stylesheet">
+
+
 
 <meta property="og:title" content="Format and interpolate a string — glue" />
 

diff --git a/dev/reference/as_glue.html b/dev/reference/as_glue.html
@@ -19,7 +19,7 @@
 <link href="https://maxcdn.bootstrapcdn.com/font-awesome/4.6.3/css/font-awesome.min.css" rel="stylesheet" integrity="sha384-T8Gy5hrqNKT+hzMclPo118YTQO6cYprQmhrYwIiQ/3axmI1hQomh7Ud2hPOy8SP1" crossorigin="anonymous">
 
 <!-- clipboard.js -->
-<script src="https://cdnjs.cloudflare.com/ajax/libs/clipboard.js/1.7.1/clipboard.min.js" integrity="sha384-cV+rhyOuRHc9Ub/91rihWcGmMmCXDeksTtCihMupQHSsi8GIIRDG0ThDc3HGQFJ3" crossorigin="anonymous"></script>
+<script src="https://cdnjs.cloudflare.com/ajax/libs/clipboard.js/2.0.4/clipboard.min.js" integrity="sha256-FiZwavyI2V6+EXO1U+xzLG3IKldpiTFf3153ea9zikQ=" crossorigin="anonymous"></script>
 
 <!-- sticky kit -->
 <script src="https://cdnjs.cloudflare.com/ajax/libs/sticky-kit/1.1.3/sticky-kit.min.js" integrity="sha256-c4Rlo1ZozqTPE2RLuvbusY3+SU1pQaJC0TjuhygMipw=" crossorigin="anonymous"></script>
@@ -28,6 +28,8 @@
 <link href="../pkgdown.css" rel="stylesheet">
 <script src="../pkgdown.js"></script>
 <link href="../tidyverse-2.css" rel="stylesheet">
+
+
 
 <meta property="og:title" content="Coerce object to glue — as_glue" />
 

diff --git a/dev/reference/glue-deprecated.html b/dev/reference/glue-deprecated.html
@@ -19,7 +19,7 @@
 <link href="https://maxcdn.bootstrapcdn.com/font-awesome/4.6.3/css/font-awesome.min.css" rel="stylesheet" integrity="sha384-T8Gy5hrqNKT+hzMclPo118YTQO6cYprQmhrYwIiQ/3axmI1hQomh7Ud2hPOy8SP1" crossorigin="anonymous">
 
 <!-- clipboard.js -->
-<script src="https://cdnjs.cloudflare.com/ajax/libs/clipboard.js/1.7.1/clipboard.min.js" integrity="sha384-cV+rhyOuRHc9Ub/91rihWcGmMmCXDeksTtCihMupQHSsi8GIIRDG0ThDc3HGQFJ3" crossorigin="anonymous"></script>
+<script src="https://cdnjs.cloudflare.com/ajax/libs/clipboard.js/2.0.4/clipboard.min.js" integrity="sha256-FiZwavyI2V6+EXO1U+xzLG3IKldpiTFf3153ea9zikQ=" crossorigin="anonymous"></script>
 
 <!-- sticky kit -->
 <script src="https://cdnjs.cloudflare.com/ajax/libs/sticky-kit/1.1.3/sticky-kit.min.js" integrity="sha256-c4Rlo1ZozqTPE2RLuvbusY3+SU1pQaJC0TjuhygMipw=" crossorigin="anonymous"></script>
@@ -28,6 +28,8 @@
 <link href="../pkgdown.css" rel="stylesheet">
 <script src="../pkgdown.js"></script>
 <link href="../tidyverse-2.css" rel="stylesheet">
+
+
 
 <meta property="og:title" content="Deprecated Functions — collapse" />
 
